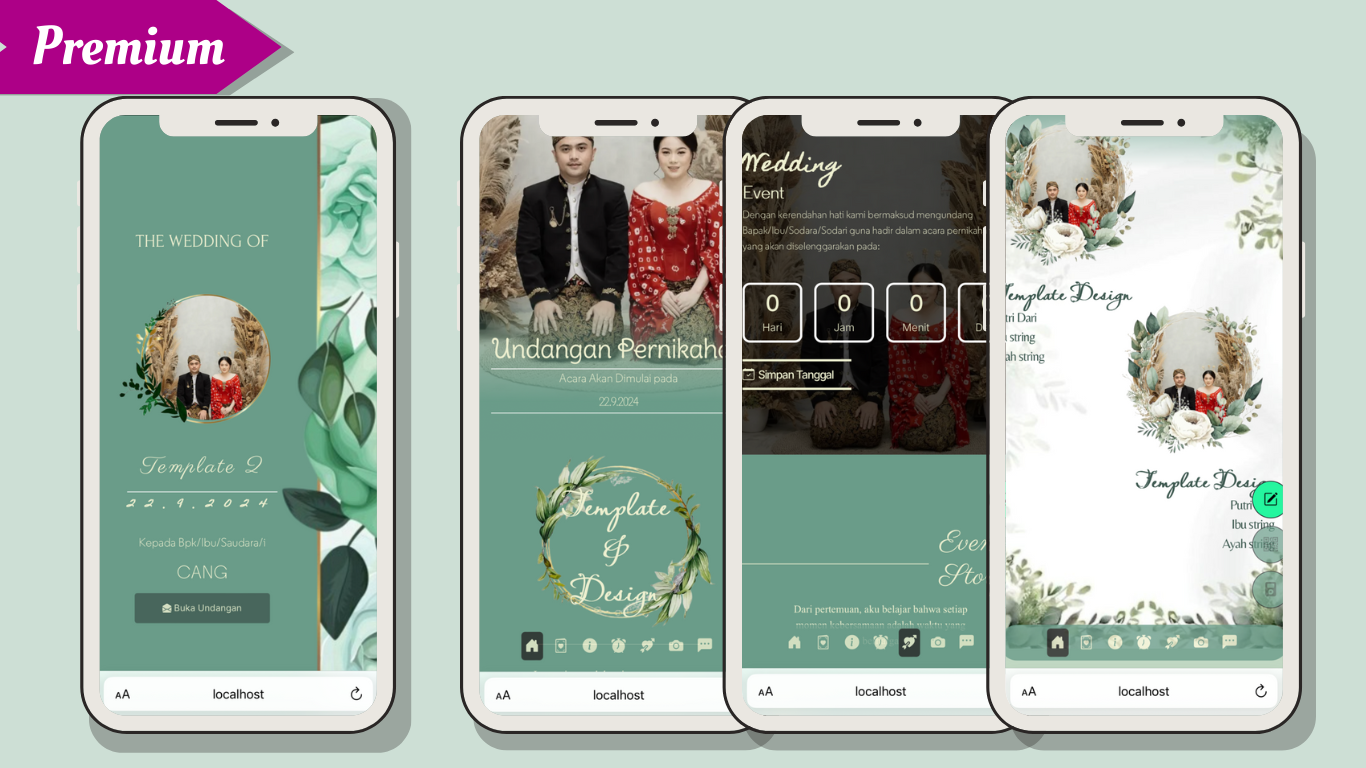
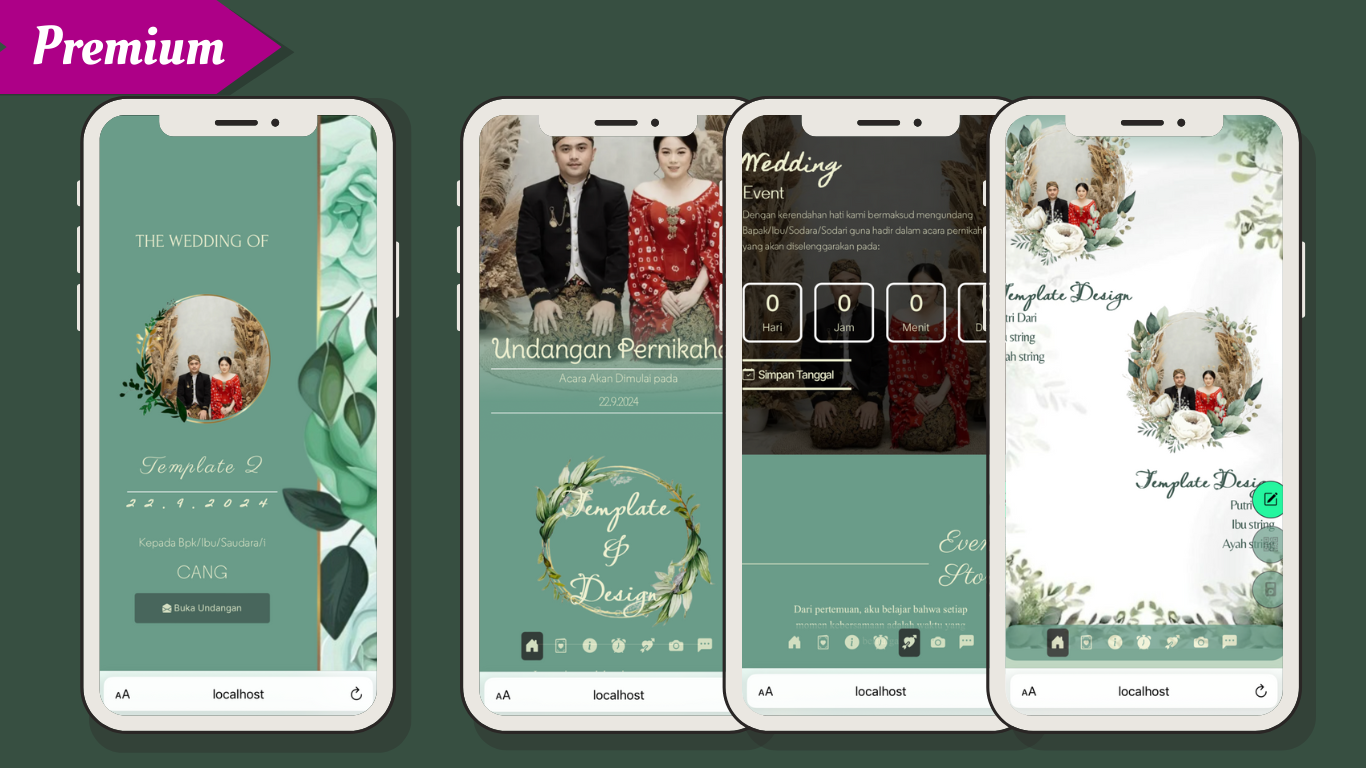
fix theme list

Changed region(s): [[0.0, 0.0, 1.0, 1.0]]

diff --git a/src/app/WebApp/Dashboard/Section/Page/Page.tsx b/src/app/WebApp/Dashboard/Section/Page/Page.tsx
@@ -69,6 +69,12 @@ const DashboardPage = () => {
 
   const dataPresetTheme: DataPresetInterface[] = [
     {
+      title: "Soft Magnoli",
+      img: "/image/themeIcon/SoftMagnoli.png",
+      href: "?a=template-3&to=cang&ex=true",
+      onHover: false,
+    },
+    {
       title: "Jade Garden",
       img: "/image/themeIcon/JadeGarden.png",
       href: "?a=template-2&to=cang&ex=true",
@@ -86,6 +92,7 @@ const DashboardPage = () => {
       href: "?a=template-5&to=cang&ex=true",
       onHover: false,
     },
+    
   ];
 
   const [dataPresetState, setdataPresetState] =
